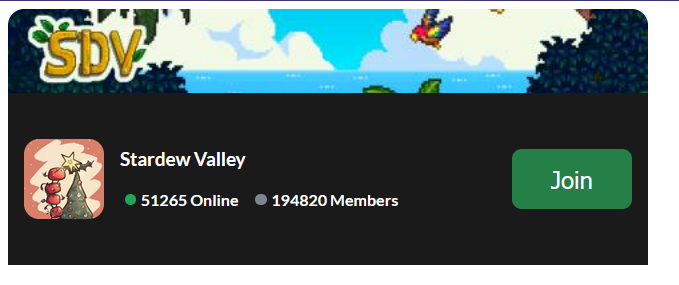
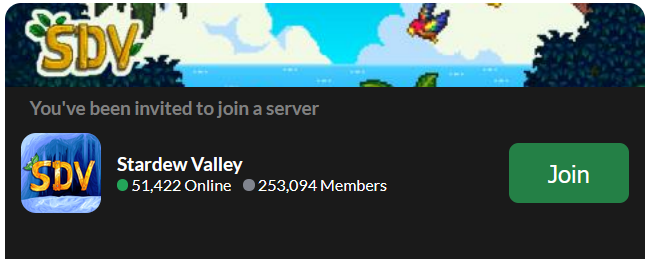
Fix the alignment and shape of the dots + update README image

diff --git a/widget.min.js b/widget.min.js
@@ -1,1 +1,1 @@
-!function(){document.addEventListener("DOMContentLoaded",()=>{var e=document.createElement("style");e.id="discord-widget-styling";e.innerHTML=`        @import url("https://fonts.googleapis.com/css?family=Lato:400,400i,700");        .dsc-widget-circle {            width: 0.7em;            height: 0.7em;            margin: 0.3em;            border-radius: 50%;        }        .dsc-widget-circle.dsc-widget-circle-online {            background-color: #23A559;        }        .dsc-widget-circle.dsc-widget-circle-members {            background-color: #80848E;        }                #dsc-widget-invite-container {            height: 16em;            width: 40em;            margin: 0;            border-radius: 1em;            font-family: Lato;            display: grid;            background-repeat: no-repeat;            background-size: cover;            background-position-y: -140px;            grid-template-rows: 33% 67%;            grid-template-columns: 100%;            text-align: left;        }                #dsc-widget-child1, #dsc-widget-child2 {            width: 100%;            height: 100%;        }                #dsc-widget-child1 {            grid-row: 1/2;        }                #dsc-widget-child2 {            grid-row: 2/3;            background-color: #1a1a1a;            display: flex;            flex-flow: row wrap;            gap: 16px;            position: relative;        }        #dsc-widget-child2 #dsc-widget-invite-notification {            margin: 0;            position: absolute;            left: calc(1.2em + 2px);            top: 0.5em;            color: gray;        }        #dsc-widget-child2 #dsc-widget-server-info {            display: flex;            flex: 1000 0 auto;            align-items: center;            max-width: 100%;            gap: 16px;            margin-left: 1em;        }        #dsc-widget-child2 #dsc-widget-server-info #dsc-widget-server-icon {            flex: 0 0 auto;            width: 5em;            height: 5em;            border-radius: 15px;            position: relative;            background-clip: padding-box;            background-position: center center;            background-size: 100% 100%;        }        #dsc-widget-child2 #dsc-widget-server-info #dsc-widget-server-details {            display: flex;            flex: 1 1 auto;            flex-direction: column;            flex-wrap: nowrap;            justify-content: center;            align-items: stretch;            min-width: 1px;            color: white;        }        #dsc-widget-child2 #dsc-widget-server-info #dsc-widget-server-details h3 {            margin: 0;        }        #dsc-widget-child2 #dsc-widget-server-info #dsc-widget-server-members #dsc-widget-member-counts-outer-parent {            display: flex;            flex-flow: row wrap;            align-items: center;            column-gap: 12px;        }        #dsc-widget-child2 #dsc-widget-server-info #dsc-widget-server-members #dsc-widget-member-counts-outer-parent .dsc-widget-member-count {            display: flex;            flex: 0 1 auto;            align-items: center;            flex-flow: nowrap;            min-width: 0;        }        #dsc-widget-child2 #dsc-widget-server-info #dsc-widget-server-members #dsc-widget-member-counts-outer-parent .dsc-widget-member-count span {            flex: 0 1 auto;        }        #dsc-widget-child2 #dsc-widget-join-link-container {            flex: 1 0 auto;            align-self: center;            height: inherit;            position: relative;            display: flex;            justify-content: center;            align-items: center;            margin-right: 1em;        }        #dsc-widget-child2 #dsc-widget-join-link {            text-decoration: none;        }        #dsc-widget-child2 #dsc-widget-join-btn {            font-size: 1.5em;            width: 5em;            height: 2.5em;            background-color: #248046;            color: white;            cursor: pointer;            outline: none;            border: none;            border-radius: 0.4em;        }        #dsc-widget-child2 #dsc-widget-join-btn:hover {            filter: brightness(0.8);        }            `;document.head.appendChild(e)});const o=e=>e.toString().replace(/\B(?=(\d{3})+(?!\d))/g,",");window.DiscordWidget=class{constructor(e,i,d=""){this.container=i;this.invite=e;this.altImg=d}async create(){this.container.innerHTML=`    <div id="dsc-widget-invite-container">        <div id="dsc-widget-child1">                 </div>        <div id="dsc-widget-child2">             <h3 id="dsc-widget-invite-notification">You've been invited to join a server</h3>            <div id="dsc-widget-server-info">                 <div id="dsc-widget-server-icon"></div>                <div id="dsc-widget-server-details">                 <h3 id="dsc-widget-server-name">Loading...</h3>                <span id="dsc-widget-server-members">                    <div id="dsc-widget-member-counts-outer-parent">                    <div id="dsc-widget-online-members" class="member-count">                        <span class="dsc-widget-circle dsc-widget-circle-online">&nbsp;</span>                        <span id="dsc-widget-online-members-text" />                    </div>                                        <div id="dsc-widget-total-members" class="dsc-widget-member-count">                        <span class="dsc-widget-circle dsc-widget-circle-members">&nbsp;</span>                        <span id="dsc-widget-total-members-text" />                    </div>                    </div>                </span>                </div>            </div>            <div id="dsc-widget-join-link-container">                <a id="dsc-widget-join-link" href="https://discord.gg" target="_blank">                    <button id="dsc-widget-join-btn">                        Join                    </button>                </a>            </div>                </div>    </div>     `;var e=document.querySelector("#dsc-widget-invite-container"),i=document.querySelector("#dsc-widget-server-icon"),d=document.querySelector("#dsc-widget-server-name"),t=document.querySelector("#dsc-widget-join-link"),c=document.querySelector("#dsc-widget-online-members-text"),r=document.querySelector("#dsc-widget-total-members-text"),n=await fetch(`https://discord.com/api/v9/invites/${this.invite}?with_counts=true&with_expiration=true`).then(e=>e.json()),s=`https://cdn.discordapp.com/icons/${n.guild.id}/${n.guild.icon}.png`;i.style.backgroundImage=`url('${s}')`;i.alt=this.altImg||"";s=n.approximate_member_count,i=(r.innerHTML=o(s)+" Members",n.approximate_presence_count),r=(c.innerHTML=o(i)+" Online",n.code),s=(t.href="https://discord.gg/"+r,n.guild.name),c=(d.innerHTML=s,`https://cdn.discordapp.com/splashes/${n.guild.id}/${n.guild.splash}.jpg?size=480`);e.style.backgroundImage=`url('${c}')`}delete(){this.container.innerHTML=""}}}();
+!function(){document.addEventListener("DOMContentLoaded",()=>{var e=document.createElement("style");e.id="discord-widget-styling";e.innerHTML=`        @import url("https://fonts.googleapis.com/css?family=Lato:400,400i,700");        .dsc-widget-circle {            width: 0.7em;            height: 0.7em;            border-radius: 50%;                        margin-top: 0.1em;            margin-right: 0.2em;                        display: inline-block        }        .dsc-widget-circle.dsc-widget-circle-online {            background-color: #23A559;        }        .dsc-widget-circle.dsc-widget-circle-members {            background-color: #80848E;        }                #dsc-widget-invite-container {            height: 16em;            width: 40em;            margin: 0;            border-radius: 1em;            font-family: Lato;            display: grid;            background-repeat: no-repeat;            background-size: cover;            background-position-y: -140px;            grid-template-rows: 33% 67%;            grid-template-columns: 100%;            text-align: left;        }                #dsc-widget-child1, #dsc-widget-child2 {            width: 100%;            height: 100%;        }                #dsc-widget-child1 {            grid-row: 1/2;        }                #dsc-widget-child2 {            grid-row: 2/3;            background-color: #1a1a1a;            display: flex;            flex-flow: row wrap;            gap: 16px;            position: relative;        }        #dsc-widget-child2 #dsc-widget-invite-notification {            margin: 0;            position: absolute;            left: calc(1.2em + 2px);            top: 0.5em;            color: gray;        }        #dsc-widget-child2 #dsc-widget-server-info {            display: flex;            flex: 1000 0 auto;            align-items: center;            max-width: 100%;            gap: 16px;            margin-left: 1em;        }        #dsc-widget-child2 #dsc-widget-server-info #dsc-widget-server-icon {            flex: 0 0 auto;            width: 5em;            height: 5em;            border-radius: 15px;            position: relative;            background-clip: padding-box;            background-position: center center;            background-size: 100% 100%;        }        #dsc-widget-child2 #dsc-widget-server-info #dsc-widget-server-details {            display: flex;            flex: 1 1 auto;            flex-direction: column;            flex-wrap: nowrap;            justify-content: center;            align-items: stretch;            min-width: 1px;            color: white;        }        #dsc-widget-child2 #dsc-widget-server-info #dsc-widget-server-details h3 {            margin: 0;        }        #dsc-widget-child2 #dsc-widget-server-info #dsc-widget-server-members #dsc-widget-member-counts-outer-parent {            display: flex;            flex-flow: row wrap;            align-items: center;            column-gap: 12px;        }        #dsc-widget-child2 #dsc-widget-server-info #dsc-widget-server-members #dsc-widget-member-counts-outer-parent .dsc-widget-member-count {            display: flex;            flex: 0 1 auto;            align-items: center;            flex-flow: nowrap;            min-width: 0;        }        #dsc-widget-child2 #dsc-widget-server-info #dsc-widget-server-members #dsc-widget-member-counts-outer-parent .dsc-widget-member-count span {            flex: 0 1 auto;        }        #dsc-widget-child2 #dsc-widget-join-link-container {            flex: 1 0 auto;            align-self: center;            height: inherit;            position: relative;            display: flex;            justify-content: center;            align-items: center;            margin-right: 1em;        }        #dsc-widget-child2 #dsc-widget-join-link {            text-decoration: none;        }        #dsc-widget-child2 #dsc-widget-join-btn {            font-size: 1.5em;            width: 5em;            height: 2.5em;            background-color: #248046;            color: white;            cursor: pointer;            outline: none;            border: none;            border-radius: 0.4em;        }        #dsc-widget-child2 #dsc-widget-join-btn:hover {            filter: brightness(0.8);        }            `;document.head.appendChild(e)});const o=e=>e.toString().replace(/\B(?=(\d{3})+(?!\d))/g,",");window.DiscordWidget=class{constructor(e,i,d=""){this.container=i;this.invite=e;this.altImg=d}async create(){this.container.innerHTML=`    <div id="dsc-widget-invite-container">        <div id="dsc-widget-child1">                 </div>        <div id="dsc-widget-child2">             <h3 id="dsc-widget-invite-notification">You've been invited to join a server</h3>            <div id="dsc-widget-server-info">                 <div id="dsc-widget-server-icon"></div>                <div id="dsc-widget-server-details">                     <h3 id="dsc-widget-server-name">Loading...</h3>                    <span id="dsc-widget-server-members">                        <div id="dsc-widget-member-counts-outer-parent">                            <div id="dsc-widget-online-members" class="dsc-widget-member-count">                                <span class="dsc-widget-circle dsc-widget-circle-online">&nbsp;</span>                                <span id="dsc-widget-online-members-text" />                            </div>                                                        <div id="dsc-widget-total-members" class="dsc-widget-member-count">                                <span class="dsc-widget-circle dsc-widget-circle-members">&nbsp;</span>                                <span id="dsc-widget-total-members-text" />                            </div>                        </div>                    </span>                </div>            </div>            <div id="dsc-widget-join-link-container">                <a id="dsc-widget-join-link" href="https://discord.gg" target="_blank">                    <button id="dsc-widget-join-btn">                        Join                    </button>                </a>            </div>                </div>    </div>     `;var e=document.querySelector("#dsc-widget-invite-container"),i=document.querySelector("#dsc-widget-server-icon"),d=document.querySelector("#dsc-widget-server-name"),t=document.querySelector("#dsc-widget-join-link"),c=document.querySelector("#dsc-widget-online-members-text"),n=document.querySelector("#dsc-widget-total-members-text"),r=await fetch(`https://discord.com/api/v9/invites/${this.invite}?with_counts=true&with_expiration=true`).then(e=>e.json()),s=`https://cdn.discordapp.com/icons/${r.guild.id}/${r.guild.icon}.png`;i.style.backgroundImage=`url('${s}')`;i.alt=this.altImg||"";s=r.approximate_member_count,i=(n.innerHTML=o(s)+" Members",r.approximate_presence_count),n=(c.innerHTML=o(i)+" Online",r.code),s=(t.href="https://discord.gg/"+n,r.guild.name),c=(d.innerHTML=s,`https://cdn.discordapp.com/splashes/${r.guild.id}/${r.guild.splash}.jpg?size=480`);e.style.backgroundImage=`url('${c}')`}delete(){this.container.innerHTML=""}}}();

diff --git a/widget.js b/widget.js
@@ -4,8 +4,12 @@
         .dsc-widget-circle {
             width: 0.7em;
             height: 0.7em;
-            margin: 0.3em;
             border-radius: 50%;
+            
+            margin-top: 0.1em;
+            margin-right: 0.2em;
+            
+            display: inline-block
         }
         .dsc-widget-circle.dsc-widget-circle-online {
             background-color: #23A559;
@@ -142,7 +146,7 @@
                     <h3 id="dsc-widget-server-name">Loading...</h3>
                     <span id="dsc-widget-server-members">
                         <div id="dsc-widget-member-counts-outer-parent">
-                            <div id="dsc-widget-online-members" class="member-count">
+                            <div id="dsc-widget-online-members" class="dsc-widget-member-count">
                                 <span class="dsc-widget-circle dsc-widget-circle-online">&nbsp;</span>
                                 <span id="dsc-widget-online-members-text" />
                             </div>
